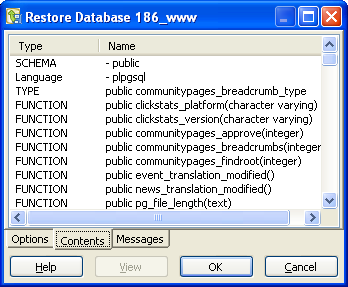
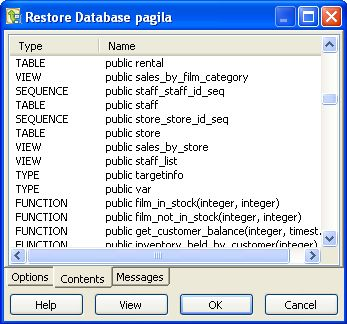
Some fixes on the manual: update screenshots, add new command line parameters, update members of the translation team.
git-svn-id: svn://svn.pgadmin.org/trunk@7791 a7884b65-44f6-0310-8a51-81a127f17b15

diff --git a/docs/en_US/commandline.html b/docs/en_US/commandline.html
@@ -21,6 +21,15 @@ when starting it.
       entered when you added the server to the treeview in pgAdmin, quoted if required. If multiple servers are registered with 
       the same description, the first found will be auto-connected.<br />&nbsp;</li>
 
+  <li><b>-S</b> Open a <a href="status.html">Server Status</a> window upon connection. If used together with the 
+      <b>-s &lt;server description&gt;</b> option, the server status window will automatically be connected to this server.
+      If used alone, a dialog box will appear prompting for the connection information. This switch cannot be used
+      together with the <b>-Sc &lt;connection string&gt;</b> option.<br />&nbsp;</li>
+      
+  <li><b>-Sc &lt;connection string&gt;</b> Open a <a href="status.html">Server Status</a> window upon connection. The server status window
+      will automatically be connected to the server specified in the connection string. This option cannot be used
+      together with the <b>-S</b> switch.<br />&nbsp;</li>
+
   <li><b>-q</b> Open a <a href="query.html">Query Tool</a> window upon connection. If used together with the 
       <b>-s &lt;server description&gt;</b> option, the query tool will automatically be connected to this server.
       If used alone, a dialog box will appear prompting for the connection information. This switch cannot be used
